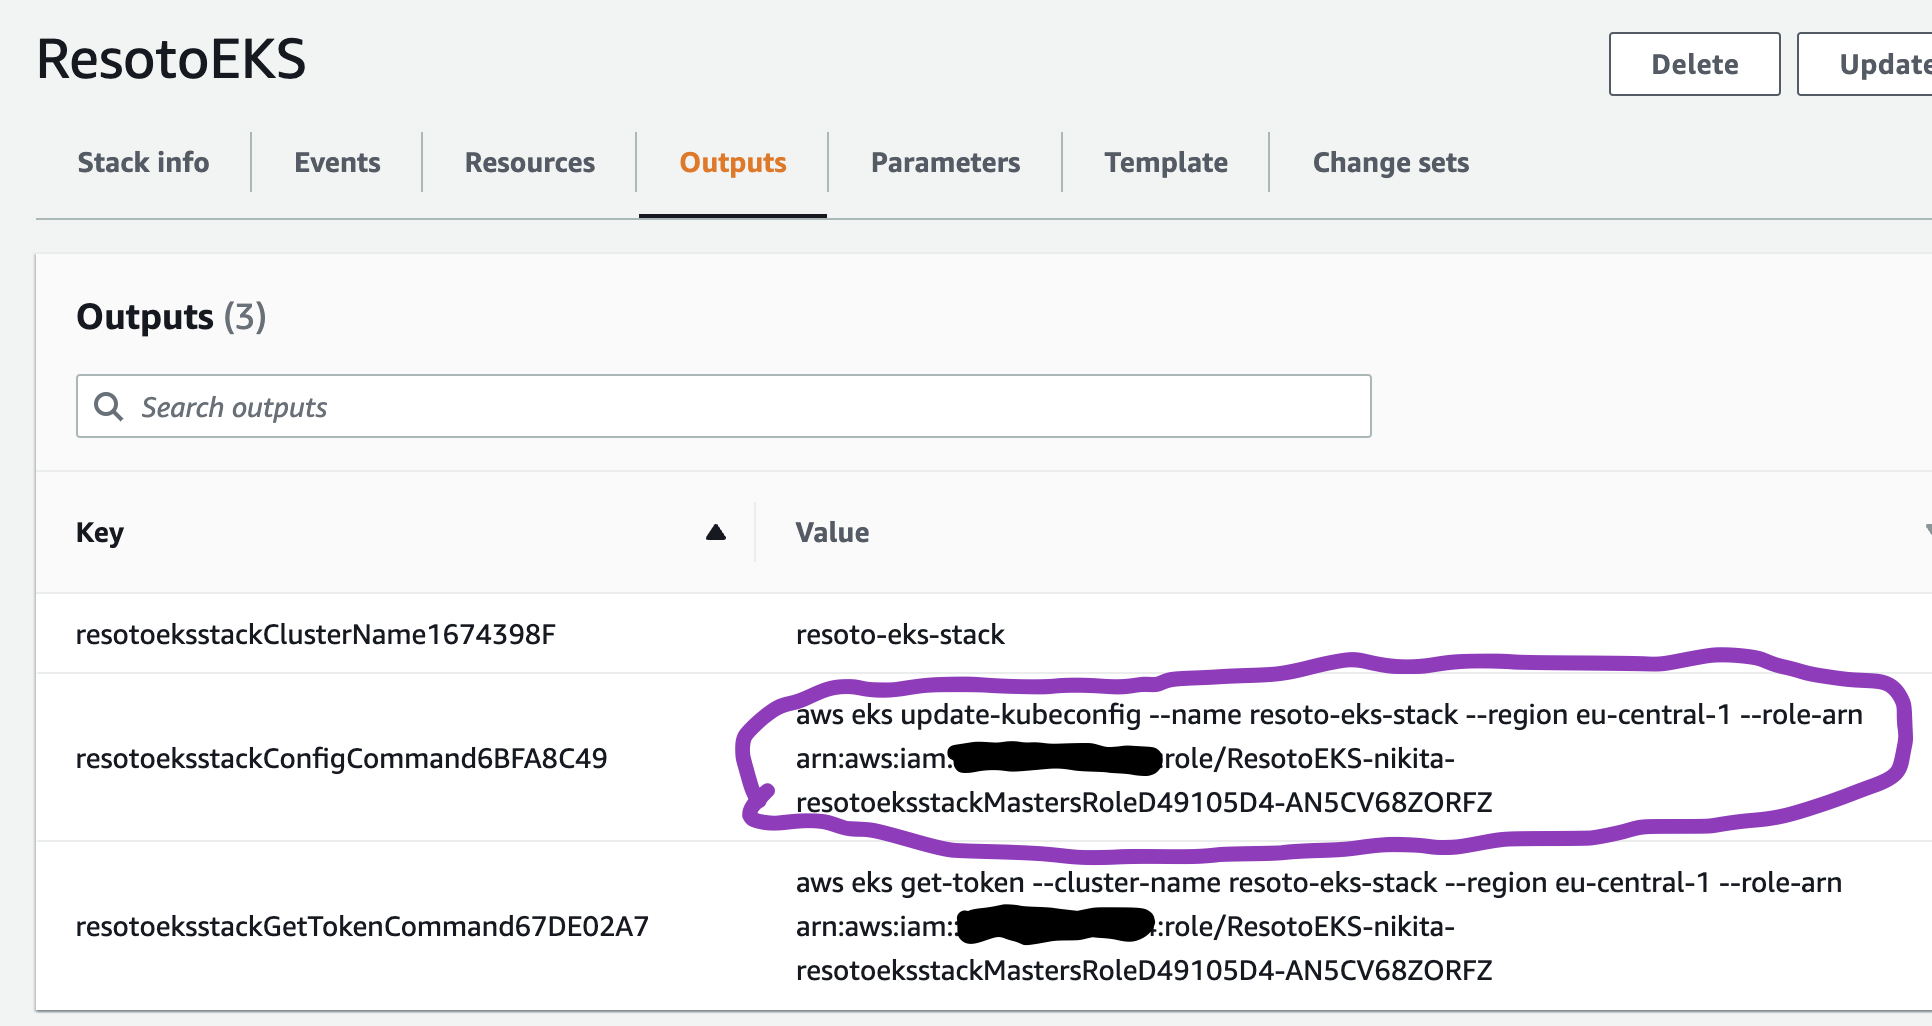
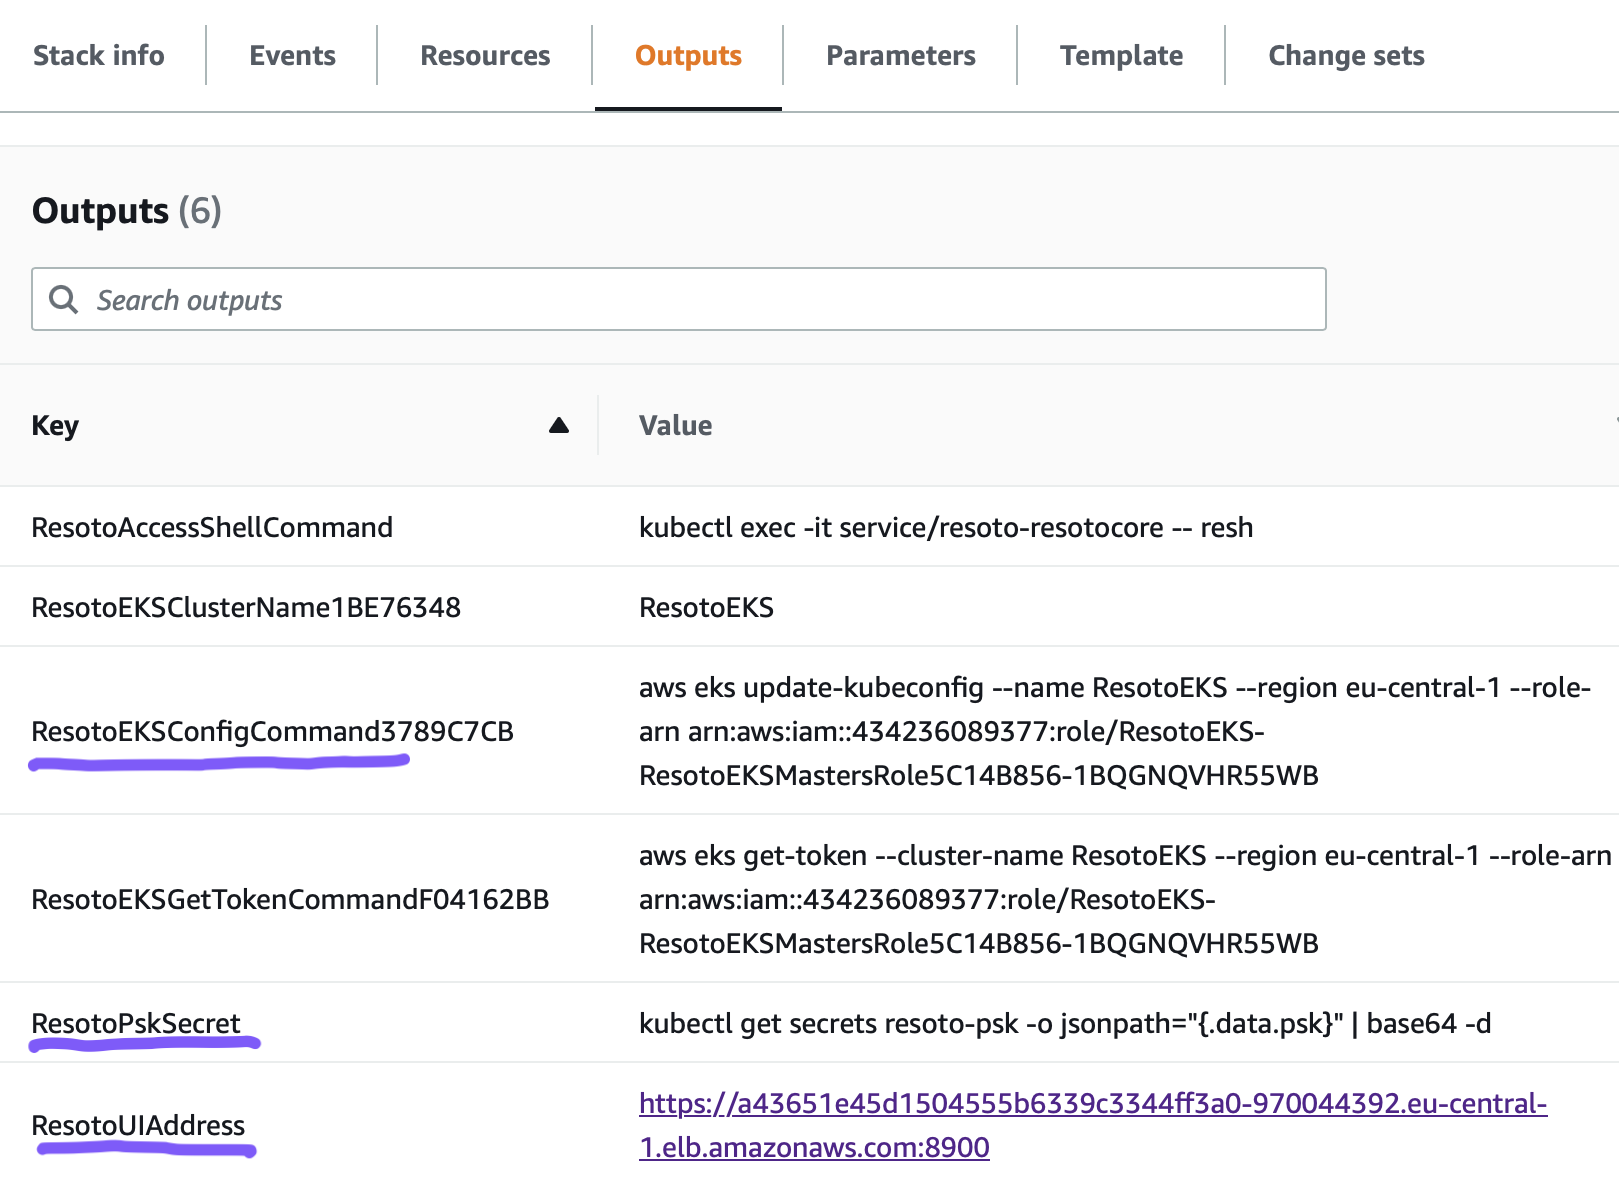
feat(ui): How to access the UI after installation

diff --git a/docs/getting-started/install-resoto/aws/cdk.md b/docs/getting-started/install-resoto/aws/cdk.md
@@ -69,21 +69,33 @@ The Resoto Cloud Development Kit (CDK) construct gives more control over the set
 
    ```bash
    Outputs:
-   east-test-1.easttest1ClusterName8D8E5E5E = east-test-1
-   east-test-1.easttest1ConfigCommand25ABB520 = aws eks update-kubeconfig --name east-test-1 --region us-east-1 --role-arn <ROLE_ARN>
-   east-test-1.easttest1GetTokenCommand337FE3DD = aws eks get-token --cluster-name east-test-1 --region us-east-1 --role-arn <ROLE_ARN>
+   ResotoEKS.ResotoEKSConfigCommandXXXX = aws eks update-kubeconfig ...
+   ResotoEKS.ResotoPskSecret = kubectl get secrets ...
+   ResotoEKS.ResotoUI = https://a3xxxxxx.us-east-1.elb.amazonaws.com:8900
 
    Stack ARN:
-   arn:aws:cloudformation:us-east-1:115717706081:stack/east-test-1/e1b9e6a0-d5f6-11eb-8498-0a374cd00e27e
+   arn:aws:cloudformation:us-east-1:115717706081:stack/ResotoEKS/e1b9e6a0-d5f6-11eb-8498-0a374cd00e27e
    ```
 
    :::
 
-4. Once the stack creation is completed, you need to configure access to the newly created EKS cluster. Open the **Outputs** tab of the CloudFormation stack and copy the value of the `resotoeksstackConfigCommand` key:
+4. Copy the command with the key `ResotoEKSConfigCommandXXXX` and paste it into your terminal. This will configure your `kubectl` to connect to the EKS cluster. This requires the `aws` command line client to be installed and configured as well as the `kubectl` command line client.
 
-   ![kubectl output command](./img/eks-cfn-output.png)
+## Launching the UI
 
-5. Execute the copied command in the terminal.
+1. Look for the ResotoUI Key in the Outputs result. Copy the link into your browser.
+
+2. The UI needs a PSK token to authenticate. You can find the command to obtain the token in the **Outputs** section under the key `ResotoPskSecret`. Copy the command and paste it into your terminal. Please note: the certificate is self-signed and will not be trusted by your browser. You can safely ignore the warning.
+   ```bash
+   $ kubectl get secrets resoto-psk -o jsonpath="{.data.psk}" | base64 -d
+   ```
+
+3. Copy the token and paste it into the UI into the PSK field.
+
+4. The Resoto UI is starting up and will guide you through the configuration.
+
+![](./img/ui-ck-wizard.png)
+
 
 ## Launching the Command-Line Interface
 

diff --git a/versioned_docs/version-3.X/getting-started/install-resoto/aws/cdk.md b/versioned_docs/version-3.X/getting-started/install-resoto/aws/cdk.md
@@ -69,21 +69,33 @@ The Resoto Cloud Development Kit (CDK) construct gives more control over the set
 
    ```bash
    Outputs:
-   east-test-1.easttest1ClusterName8D8E5E5E = east-test-1
-   east-test-1.easttest1ConfigCommand25ABB520 = aws eks update-kubeconfig --name east-test-1 --region us-east-1 --role-arn <ROLE_ARN>
-   east-test-1.easttest1GetTokenCommand337FE3DD = aws eks get-token --cluster-name east-test-1 --region us-east-1 --role-arn <ROLE_ARN>
+   ResotoEKS.ResotoEKSConfigCommandXXXX = aws eks update-kubeconfig ...
+   ResotoEKS.ResotoPskSecret = kubectl get secrets ...
+   ResotoEKS.ResotoUI = https://a3xxxxxx.us-east-1.elb.amazonaws.com:8900
 
    Stack ARN:
-   arn:aws:cloudformation:us-east-1:115717706081:stack/east-test-1/e1b9e6a0-d5f6-11eb-8498-0a374cd00e27e
+   arn:aws:cloudformation:us-east-1:115717706081:stack/ResotoEKS/e1b9e6a0-d5f6-11eb-8498-0a374cd00e27e
    ```
 
    :::
 
-4. Once the stack creation is completed, you need to configure access to the newly created EKS cluster. Open the **Outputs** tab of the CloudFormation stack and copy the value of the `resotoeksstackConfigCommand` key:
+4. Copy the command with the key `ResotoEKSConfigCommandXXXX` and paste it into your terminal. This will configure your `kubectl` to connect to the EKS cluster. This requires the `aws` command line client to be installed and configured as well as the `kubectl` command line client.
 
-   ![kubectl output command](./img/eks-cfn-output.png)
+## Launching the UI
 
-5. Execute the copied command in the terminal.
+1. Look for the ResotoUI Key in the Outputs result. Copy the link into your browser.
+
+2. The UI needs a PSK token to authenticate. You can find the command to obtain the token in the **Outputs** section under the key `ResotoPskSecret`. Copy the command and paste it into your terminal. Please note: the certificate is self-signed and will not be trusted by your browser. You can safely ignore the warning.
+   ```bash
+   $ kubectl get secrets resoto-psk -o jsonpath="{.data.psk}" | base64 -d
+   ```
+
+3. Copy the token and paste it into the UI into the PSK field.
+
+4. The Resoto UI is starting up and will guide you through the configuration.
+
+![](./img/ui-ck-wizard.png)
+
 
 ## Launching the Command-Line Interface
 

diff --git a/docs/getting-started/install-resoto/aws/cloudformation.md b/docs/getting-started/install-resoto/aws/cloudformation.md
@@ -48,11 +48,27 @@ The Resoto CloudFormation template is the easiest way to get a production-grade 
 
    :::
 
-5. Once the stack creation is completed, you need to configure access to the newly created EKS cluster. Open the **Outputs** tab of the CloudFormation stack and copy the value of the `resotoeksstackConfigCommand` key:
+5. Once the stack creation is completed, open the **Outputs** tab of the CloudFormation stack.
 
    ![kubectl output command](./img/eks-cfn-output.png)
 
-6. Execute the copied command in the terminal.
+6. Copy the command with the key `ResotoEKSConfigCommandXXXX` and paste it into your terminal. This will configure your `kubectl` to connect to the EKS cluster. This requires the `aws` command line client to be installed and configured as well as the `kubectl` command line client.
+
+
+## Launching the UI
+
+1. Open the **Outputs** tab of the CloudFormation stack and look for the ResotoUI Key. Click on the link to open the UI. Please note: the certificate is self-signed and will not be trusted by your browser. You can safely ignore the warning.
+
+2. The UI needs a PSK token to authenticate. You can find the command to obtain the token in the **Outputs** tab of the CloudFormation stack under the key `ResotoPskSecret`. Copy the command and paste it into your terminal.
+   ```bash
+   $ kubectl get secrets resoto-psk -o jsonpath="{.data.psk}" | base64 -d
+   ```
+
+3. Copy the token and paste it into the UI into the PSK field.
+
+4. The Resoto UI is starting up and will guide you through the configuration.
+
+![](./img/ui-ck-wizard.png)
 
 ## Launching the Command-Line Interface
 

diff --git a/versioned_docs/version-3.X/getting-started/install-resoto/aws/cloudformation.md b/versioned_docs/version-3.X/getting-started/install-resoto/aws/cloudformation.md
@@ -48,11 +48,27 @@ The Resoto CloudFormation template is the easiest way to get a production-grade 
 
    :::
 
-5. Once the stack creation is completed, you need to configure access to the newly created EKS cluster. Open the **Outputs** tab of the CloudFormation stack and copy the value of the `resotoeksstackConfigCommand` key:
+5. Once the stack creation is completed, open the **Outputs** tab of the CloudFormation stack.
 
    ![kubectl output command](./img/eks-cfn-output.png)
 
-6. Execute the copied command in the terminal.
+6. Copy the command with the key `ResotoEKSConfigCommandXXXX` and paste it into your terminal. This will configure your `kubectl` to connect to the EKS cluster. This requires the `aws` command line client to be installed and configured as well as the `kubectl` command line client.
+
+
+## Launching the UI
+
+1. Open the **Outputs** tab of the CloudFormation stack and look for the ResotoUI Key. Click on the link to open the UI. Please note: the certificate is self-signed and will not be trusted by your browser. You can safely ignore the warning.
+
+2. The UI needs a PSK token to authenticate. You can find the command to obtain the token in the **Outputs** tab of the CloudFormation stack under the key `ResotoPskSecret`. Copy the command and paste it into your terminal.
+   ```bash
+   $ kubectl get secrets resoto-psk -o jsonpath="{.data.psk}" | base64 -d
+   ```
+
+3. Copy the token and paste it into the UI into the PSK field.
+
+4. The Resoto UI is starting up and will guide you through the configuration.
+
+![](./img/ui-ck-wizard.png)
 
 ## Launching the Command-Line Interface
 

diff --git a/docs/getting-started/install-resoto/kubernetes.md b/docs/getting-started/install-resoto/kubernetes.md
@@ -91,6 +91,21 @@ $ helm install resoto someengineering/resoto --set image.tag={{imageTag}} -f res
 
 And just like that, you have Resoto running in a Kubernetes cluster! A collect run will begin automatically. This first collect usually takes less than 3 minutes.
 
+## Launching the Resoto UI
+
+ResotoCore provides a service that exposes the Resoto UI on port `8900`. We recommend configuring an Ingress with a valid certificate to access the UI.
+Until this is done, you can access the UI by port-forwarding the service.
+
+1. Start the port forwarding.
+   ```bash
+   $ kubectl port-forward services/resoto-resotocore 8900
+   ```
+
+2. Open the UI in your browser at [https://localhost:8900](https://localhost:8900). Please note: the certificate is self-signed and will not be trusted by your browser. You can safely ignore the warning.
+
+![](./img/ui-ck-wizard.png)
+
+
 ## Launching the Resoto Command-Line Interface
 
 The `resh` command is used to interact with [`resotocore`](../../concepts/components/core.md).

diff --git a/versioned_docs/version-3.X/getting-started/install-resoto/kubernetes.md b/versioned_docs/version-3.X/getting-started/install-resoto/kubernetes.md
@@ -91,6 +91,21 @@ $ helm install resoto someengineering/resoto --set image.tag={{imageTag}} -f res
 
 And just like that, you have Resoto running in a Kubernetes cluster! A collect run will begin automatically. This first collect usually takes less than 3 minutes.
 
+## Launching the Resoto UI
+
+ResotoCore provides a service that exposes the Resoto UI on port `8900`. We recommend configuring an Ingress with a valid certificate to access the UI.
+Until this is done, you can access the UI by port-forwarding the service.
+
+1. Start the port forwarding.
+   ```bash
+   $ kubectl port-forward services/resoto-resotocore 8900
+   ```
+
+2. Open the UI in your browser at [https://localhost:8900](https://localhost:8900). Please note: the certificate is self-signed and will not be trusted by your browser. You can safely ignore the warning.
+
+![](./img/ui-ck-wizard.png)
+
+
 ## Launching the Resoto Command-Line Interface
 
 The `resh` command is used to interact with [`resotocore`](../../concepts/components/core.md).

diff --git a/docs/getting-started/install-resoto/docker.md b/docs/getting-started/install-resoto/docker.md
@@ -116,6 +116,14 @@ Resoto performs CPU-intensive graph operations. In a production setup, we recomm
 
    </VersionOnly>
 
+## Launching the Resoto UI
+
+The UI is listening on port `8900` by default. You can access it via [https://localhost:8900/](https://localhost:8900/). Please note: the certificate is self-signed and will not be trusted by your browser. You can safely ignore the warning.
+The first start of the UI will guide you through the configuration.
+
+![](./img/ui-ck-wizard.png)
+
+
 ## Launching the Command-Line Interface
 
 The `resh` command is used to interact with [`resotocore`](../../concepts/components/core.md).

diff --git a/versioned_docs/version-3.X/getting-started/install-resoto/docker.md b/versioned_docs/version-3.X/getting-started/install-resoto/docker.md
@@ -116,6 +116,14 @@ Resoto performs CPU-intensive graph operations. In a production setup, we recomm
 
    </VersionOnly>
 
+## Launching the Resoto UI
+
+The UI is listening on port `8900` by default. You can access it via [https://localhost:8900/](https://localhost:8900/). Please note: the certificate is self-signed and will not be trusted by your browser. You can safely ignore the warning.
+The first start of the UI will guide you through the configuration.
+
+![](./img/ui-ck-wizard.png)
+
+
 ## Launching the Command-Line Interface
 
 The `resh` command is used to interact with [`resotocore`](../../concepts/components/core.md).

diff --git a/docs/getting-started/install-resoto/pip.md b/docs/getting-started/install-resoto/pip.md
@@ -121,6 +121,14 @@ Resoto now exposes Prometheus metrics at `https://localhost:9955/metrics`. Follo
 </TabItem>
 </Tabs>
 
+## Launching Resoto UI
+
+The UI is listening on port `8900` by default. You can access it via [https://localhost:8900/](https://localhost:8900/). Please note: the certificate is self-signed and will not be trusted by your browser. You can safely ignore the warning.
+The first start of the UI will guide you through the configuration.
+
+![](./img/ui-ck-wizard.png)
+
+
 ## Launching the Command-Line Interface
 
 The `resh` command is used to interact with [`resotocore`](../../concepts/components/core.md).

diff --git a/versioned_docs/version-3.X/getting-started/install-resoto/pip.md b/versioned_docs/version-3.X/getting-started/install-resoto/pip.md
@@ -121,6 +121,14 @@ Resoto now exposes Prometheus metrics at `https://localhost:9955/metrics`. Follo
 </TabItem>
 </Tabs>
 
+## Launching Resoto UI
+
+The UI is listening on port `8900` by default. You can access it via [https://localhost:8900/](https://localhost:8900/). Please note: the certificate is self-signed and will not be trusted by your browser. You can safely ignore the warning.
+The first start of the UI will guide you through the configuration.
+
+![](./img/ui-ck-wizard.png)
+
+
 ## Launching the Command-Line Interface
 
 The `resh` command is used to interact with [`resotocore`](../../concepts/components/core.md).
